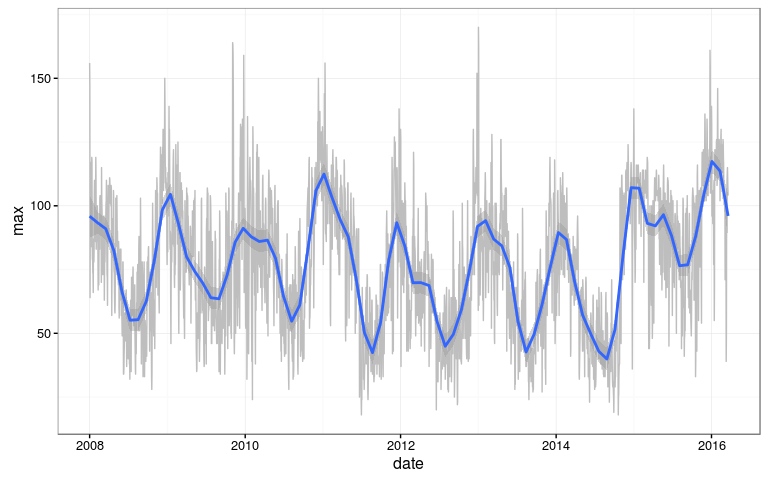
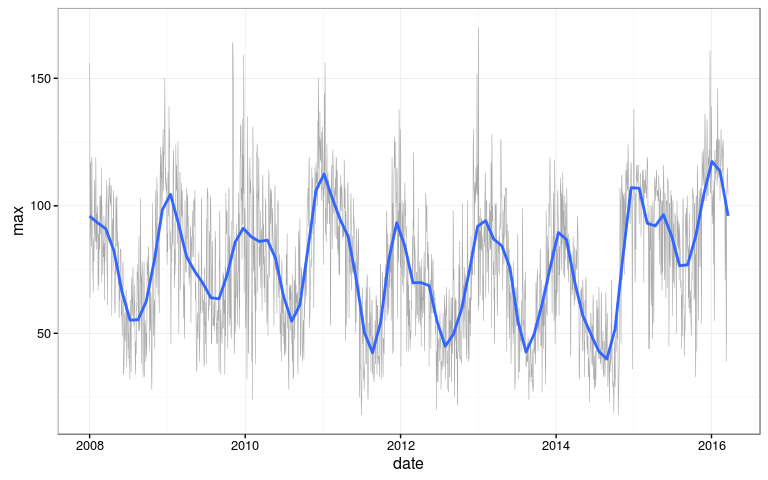
better readme

diff --git a/readme.md b/readme.md
@@ -56,7 +56,7 @@ Quick Example
 
 The package consists mainly of two functions:
 
--   `get_zone_data` to download data for each of the 5 geographic zones of Mexico City and
+-   `get_zone_data` to download data for each of the 5 geographic zones of Mexico City
 -   `get_station_data` to download data for each of the pollution (and wind and temperature) measuring stations.
 
 ``` r
@@ -70,7 +70,6 @@ pm_10 <- get_zone_data(criterion = "MAXIMOS", # Can be MAXIMOS (daily maximum) o
                        zone = "TZ", # "NO", "NE", "CE", "SO", "SE", "TZ" (All zones)
                        start_date = "2008-01-01", # Can't be earlier than 2008-01-01
                        end_date = "2016-03-19") # Can be up to the current date
-# Notice the data.frame already has columns max, min, mean, median
 knitr::kable(head(pm_10))
 ```
 
@@ -87,8 +86,8 @@ knitr::kable(head(pm_10))
 # Plot the overall highest maximum pm10 level with trendline
 ggplot(pm_10 %>% group_by(date) %>% summarise(max = max(value, na.rm = TRUE)), 
        aes(date, max, group = 1)) +
-  geom_line(color = "gray") +
-  geom_smooth(method = "gam", formula = y ~ s(x, k = 50)) +
+  geom_line(color = "darkgray", size = .2) +
+  geom_smooth(method = "gam", formula = y ~ s(x, k = 50), se = FALSE) +
   theme_bw()
 ```
 
